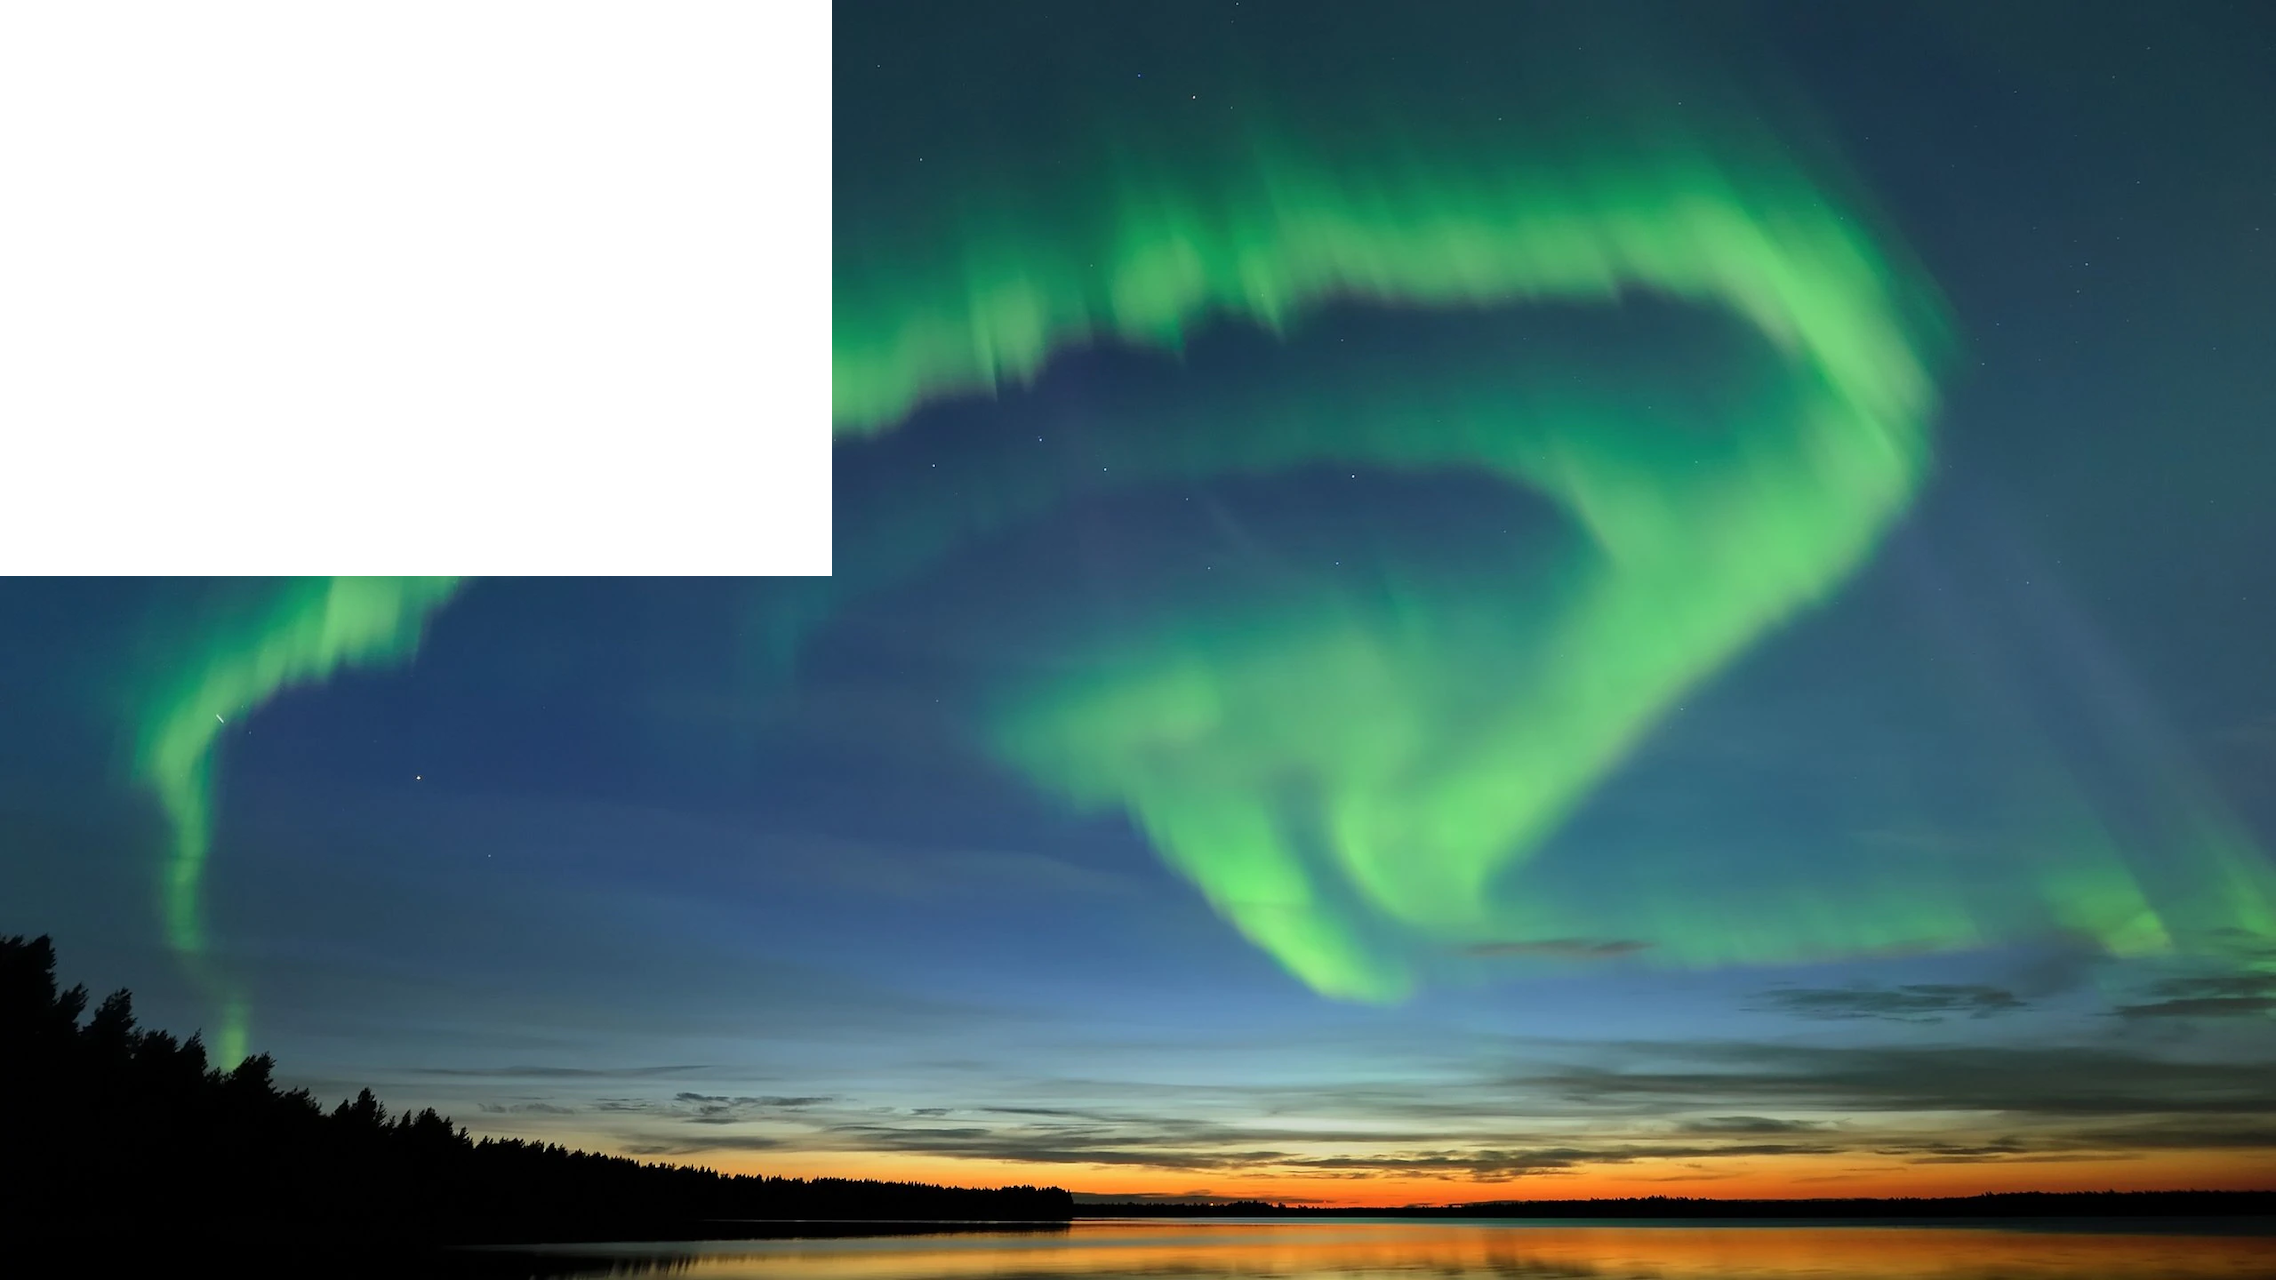
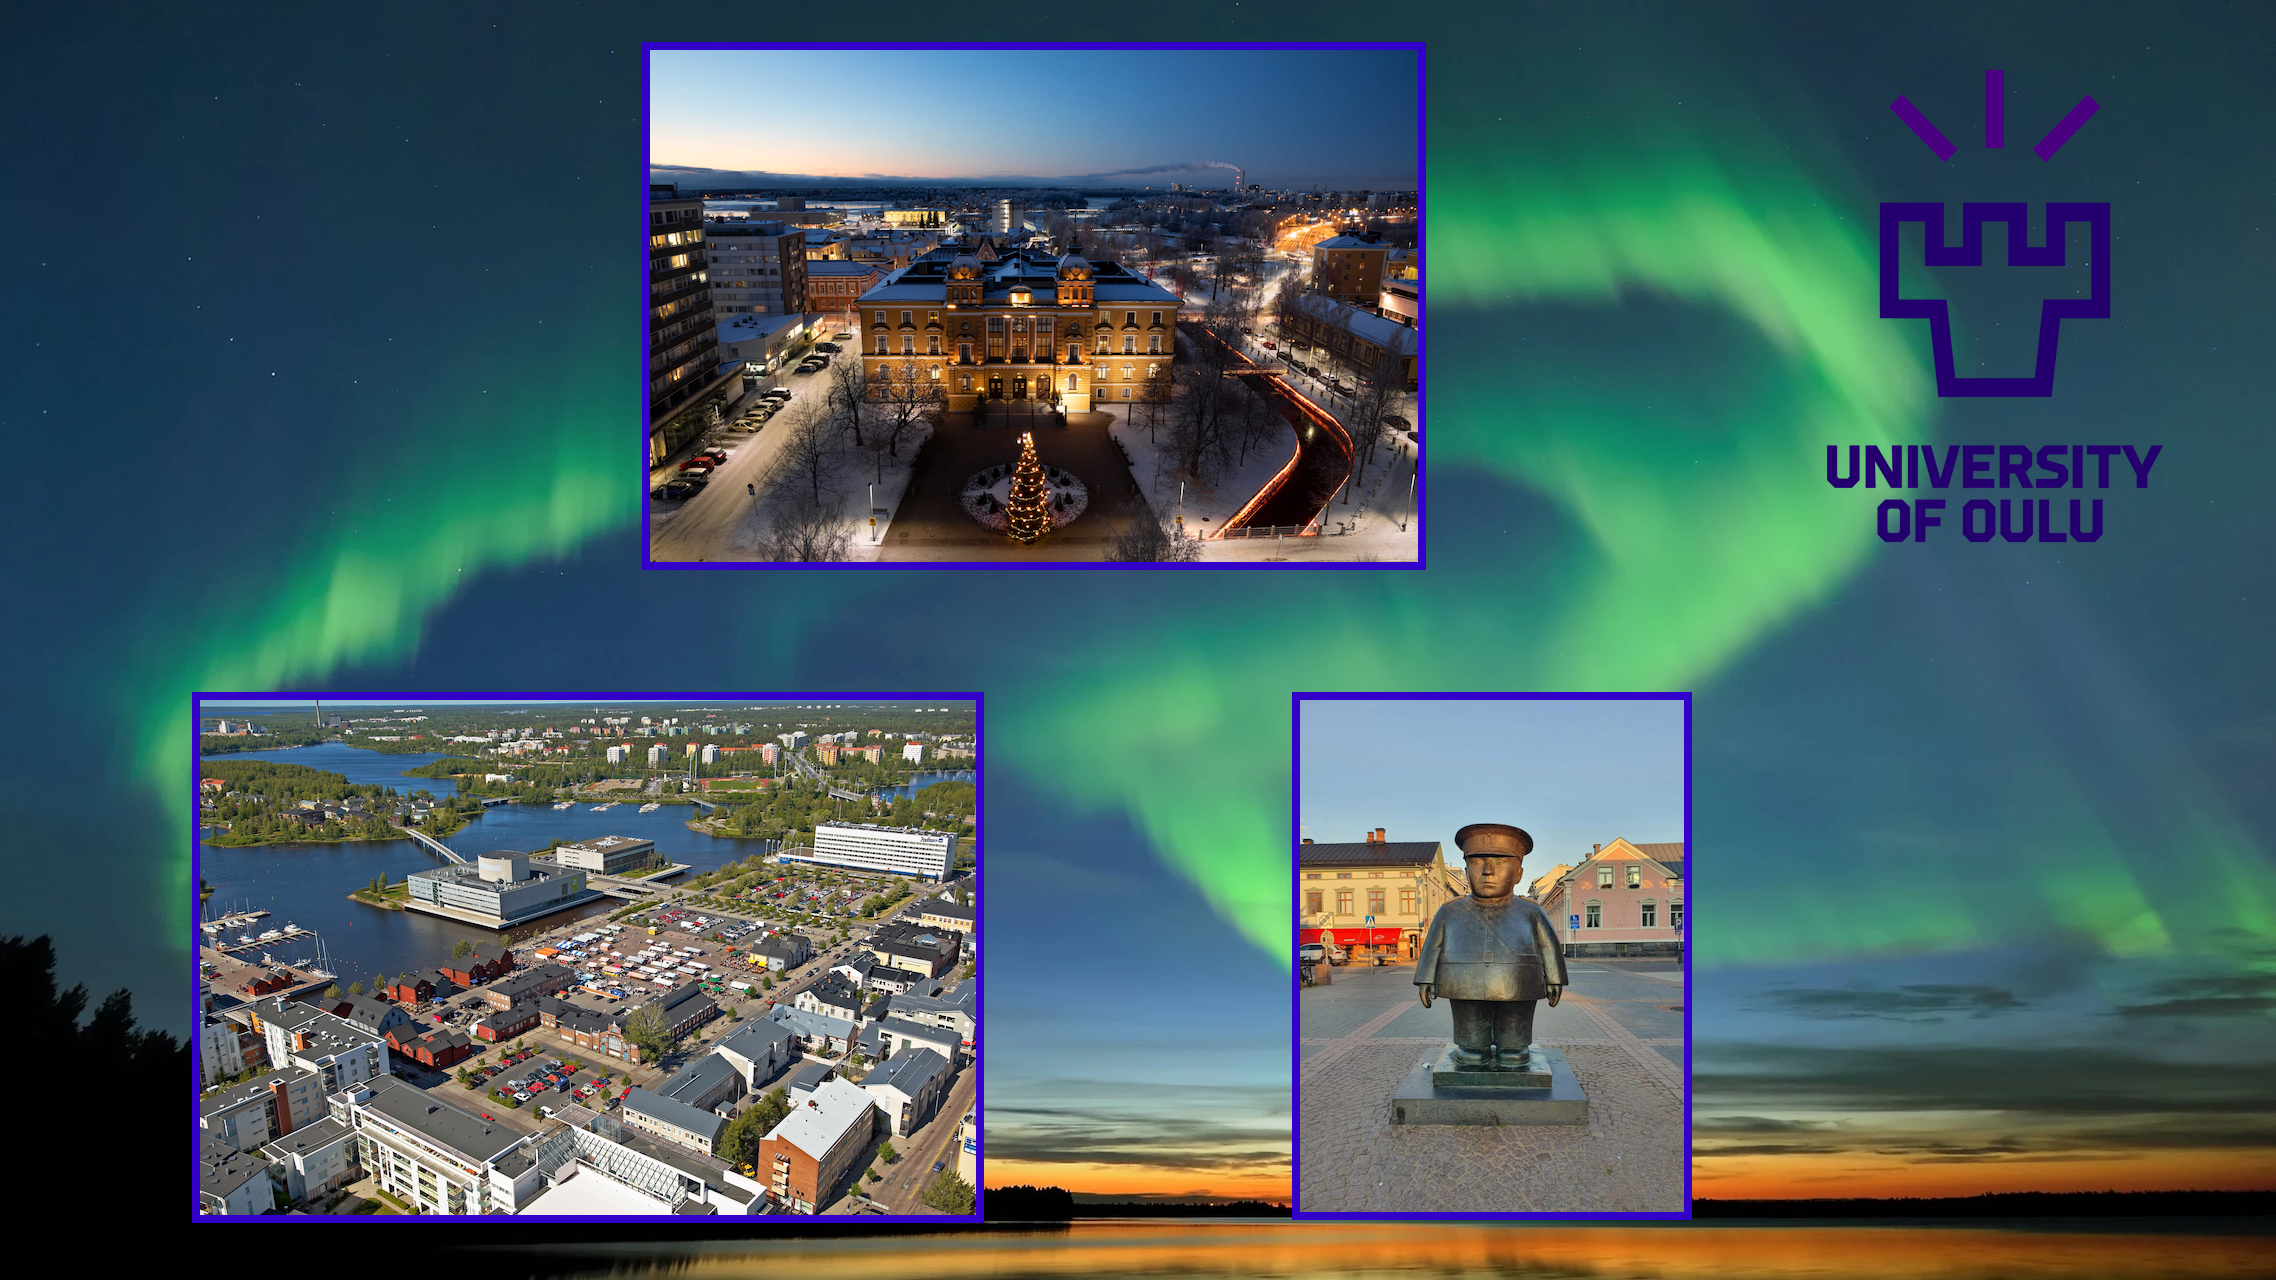
MP3 Full done

diff --git a/MP3_Collage/mp3_collage/canvas.cpp b/MP3_Collage/mp3_collage/canvas.cpp
@@ -7,9 +7,11 @@
 
 #include "canvas.h"
 #include <iostream>
+#include <algorithm>
 
 Canvas::Canvas()
 {
+	layers.reserve(10);
 	// TODO constructor
 	// Your code here
 }
@@ -17,7 +19,7 @@ Canvas::Canvas()
 // Just delete the list, the individual layers are handled by main
 Canvas::~Canvas()
 {
-	layers.reserve(10);
+	layers.clear();
 	// TODO destructor
 	// Your code here
 }
@@ -27,8 +29,8 @@ void Canvas::Add(size_t x, size_t y, const Vector2& pos, const Vector2& scale, c
 {
 	// TODO instead of a single layer, have a list
 	// Replace the code here
-        layers = new PNGLayer(x,y,pos,scale,col,name);
-        layercount = 1;  
+    auto newLayer = std::make_unique<PNGLayer>(x, y, pos, scale, col, name);
+	layers.push_back(std::move(newLayer));
 }
 
 // Get the latest layer added to the canvas
@@ -36,7 +38,7 @@ void Canvas::Add(size_t x, size_t y, const Vector2& pos, const Vector2& scale, c
 PNGLayer & Canvas::GetTopLayer(){
 	// TODO instead of a single layer,
 	// Return the latest/top layer from the list
-	return layers[0];
+	return *layers.back();
 }
 
 // Get a layer by its name
@@ -45,7 +47,13 @@ PNGLayer& Canvas::GetByName(const std::string& name){
 	// TODO instead of a single layer,
 	// Return the layer with matching name
 	// Report an error if it doesn't exist
-	return layers[0];
+	for (auto& layerPtr : layers) {
+		if (layerPtr->getName() == name) {
+			return *layerPtr;
+		}
+	}
+
+	throw std::runtime_error("Layer not found: " + name);
 }
 
 // Find and remove layer by name
@@ -55,6 +63,14 @@ void Canvas::Remove(const std::string& name)
 	// TODO instead of a single layer, should work for a list
 	// This removes the frame for the logo in the collage
 	// Your code here
+	for (auto it = layers.begin(); it != layers.end(); ++it) {
+		const PNGLayer& layer = **it;
+
+		if (layer.getName() == name) {
+            layers.erase(it);
+            return;
+        }
+	}
 }
 
 // Find given layers from list and swap their positions
@@ -63,6 +79,24 @@ void Canvas::Swap(const std::string& name1, const std::string& name2)
 {
 	// TODO needed for collage so the frames can be drawn before images
 	// Your code here
+	auto it1 = layers.end();
+    auto it2 = layers.end();
+    
+    for (auto it = layers.begin(); it != layers.end(); ++it) {
+        if ((*it)->getName() == name1) {
+            it1 = it;
+        } else if ((*it)->getName() == name2) {
+            it2 = it;
+        }
+
+        if (it1 != layers.end() && it2 != layers.end()) {
+            break;
+        }
+    }
+
+    if (it1 != layers.end() && it2 != layers.end()) {
+        std::swap(*it1, *it2);
+    }
 }
 
 // Draws all layers in the list in order
@@ -71,16 +105,17 @@ void Canvas::Swap(const std::string& name1, const std::string& name2)
 // Blends drawn layers based on alpha channel (transparency)
 void Canvas::draw(PNG& canvas) const
 {
-	for(size_t i=0; i<layercount; i++) {
+	for (const auto& layerPtr : layers) {
 		//update this line
-		PNGLayer& layer = layers[0];
+		const PNGLayer& layer = *layerPtr;
+		Vector2 sc = layer.getScale();
+		Vector2 pos = layer.getPosition();
 		
 		for(size_t x=0, xmax = layer.width(); x<xmax; x++){
 			for(size_t y=0, ymax = layer.height(); y<ymax; y++){
 				// This gets the pixel color blended with layer color
 				// Check pnglayer.cpp
 				RGBAPixel coli = layer.getBlendedPixel(x,y);
-				Vector2 sc = layer.getScale();
 				
 				// TODO You should uncomment the below line and use in the section below
 				// Vector2 pos = layer.getPosition();
@@ -96,14 +131,15 @@ void Canvas::draw(PNG& canvas) const
 						// Multiply x and y by layer scale
 						
 						// Modify the two lines below
-						int x1 = x;
-						int y1 = y;
+						int x1 = static_cast<int>(x * sc.x() + pos.x() + xs);
+						int y1 = static_cast<int>(y * sc.y() + pos.y() + ys);
 					  
 						// Check that it's within bounds
 						if(x1 >= 0 && x1 < (int)canvas.width() && y1 >= 0 && y1 < (int)canvas.height()) {
 							// Current color of the canvas
 							RGBAPixel& colc = canvas(x1,y1);
-														
+							unsigned char alpha = coli.alpha;
+							
 							// TODO Blend based on alpha.
 							// Multiply layer color with alpha, canvas color with 255-alpha
 							// Add them and divide by 255
@@ -111,9 +147,9 @@ void Canvas::draw(PNG& canvas) const
 							// 1-254 = partly new pixel, partly old
 							
 							// Modify the three lines below
-							colc.red = coli.red;
-							colc.green = coli.green;
-							colc.blue = coli.blue;
+							colc.red   = (colc.red   * (255 - alpha) + coli.red   * alpha) / 255;
+							colc.green = (colc.green * (255 - alpha) + coli.green * alpha) / 255;
+							colc.blue  = (colc.blue  * (255 - alpha) + coli.blue  * alpha) / 255;
 
 							// We can keep the canvas opaque, no reason to change it
 							colc.alpha = 255;

diff --git a/MP3_Collage/mp3_collage/pnglayer.cpp b/MP3_Collage/mp3_collage/pnglayer.cpp
@@ -12,6 +12,15 @@ PNGLayer::PNGLayer(size_t x, size_t y, const Vector2& position, const Vector2& s
 	resize(x, y);
 	// TODO Initialize the pixels transparent so when drawing shapes, the background is transparent
 	// Your code here
+	for (size_t i = 0; i < x; ++i) {
+        for (size_t j = 0; j < y; ++j) {
+            RGBAPixel& pixel = (*this)(i, j);
+            pixel.red = 255;    // Full intensity red
+            pixel.green = 255;  // Full intensity green
+            pixel.blue = 255;   // Full intensity blue
+            pixel.alpha = 0;    // Fully transparent
+        }
+    }
 }
 
 RGBAPixel PNGLayer::getBlendedPixel(size_t x, size_t y) const{
@@ -23,6 +32,10 @@ RGBAPixel PNGLayer::getBlendedPixel(size_t x, size_t y) const{
 	// This way the color can be easily changed later
 	
 	// Your code here
+	copy.red = static_cast<unsigned char>((copy.red * color_.red) / 255);
+    copy.green = static_cast<unsigned char>((copy.green * color_.green) / 255);
+    copy.blue = static_cast<unsigned char>((copy.blue * color_.blue) / 255);
+    copy.alpha = static_cast<unsigned char>((copy.alpha * color_.alpha) / 255);
 	return copy;
 }
 

diff --git a/MP3_Collage/mp3_collage/pnglayer.h b/MP3_Collage/mp3_collage/pnglayer.h
@@ -18,11 +18,14 @@ class PNGLayer : public PNG
 	public:
 		// x and y here represent size in pixels
 		PNGLayer(size_t x, size_t y, const Vector2& pos, const Vector2& scale, const RGBAPixel& col, const std::string& name);
-		PNGLayer() {}
+		~PNGLayer() { }
 		const Vector2& getPosition() const;
 		const Vector2& getScale() const;
 		RGBAPixel getBlendedPixel(size_t x, size_t y) const;
 		void SetPosition(const Vector2& pos);
+		const std::string& getName() const {
+			return name_;
+		}
 	private:
 		Vector2 position_;
 		Vector2 scale_;

diff --git a/MP3_Collage/mp3_collage/drawable.h b/MP3_Collage/mp3_collage/drawable.h
@@ -16,7 +16,7 @@
 class Drawable
 {
 	public:
-		~Drawable() { /* Nothing */ }
+		virtual ~Drawable() { /* Nothing */ }
 
 		/**
 		 * @brief This method will draw the object onto the canvas.
